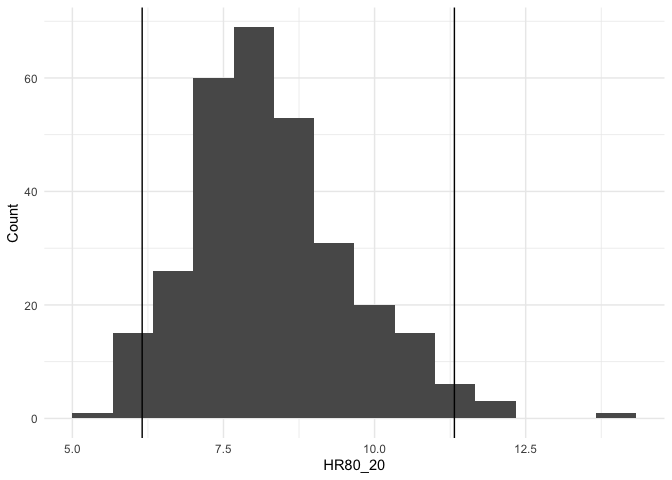
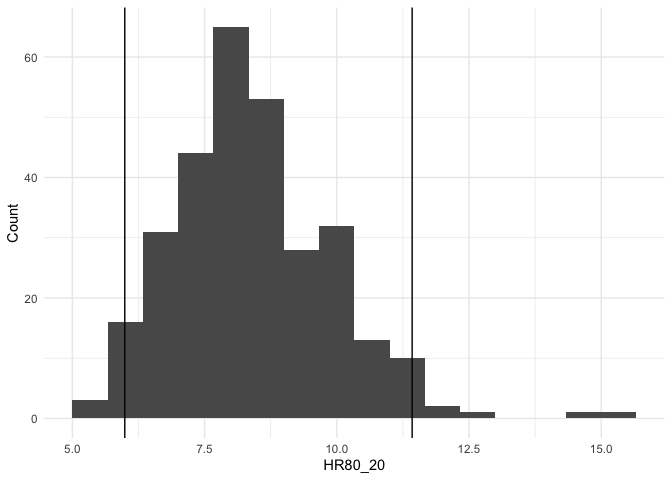
attempt 2 at caching bootstrap output

diff --git a/README.md b/README.md
@@ -72,7 +72,7 @@ that is included with the `hazrd` package.
 ``` r
 library(ggplot2)
 library(hazrd)
-
+set.seed(20393440)
 head(test_data)
 ```
 
@@ -104,9 +104,9 @@ str(HR80_20)
     ## List of 5
     ##  $ index    : chr "HR80_20"
     ##  $ value    : num 8.17
-    ##  $ conf.low : num 6.15
-    ##  $ conf.high: num 11.3
-    ##  $ iters    : num [1:300, 1] 6.06 7.21 7.76 7.23 9.27 ...
+    ##  $ conf.low : num 5.99
+    ##  $ conf.high: num 11.4
+    ##  $ iters    : num [1:300, 1] 8.35 9.71 8.24 10.2 8.54 ...
 
 Each `get_` function also returns the output from each bootstrap
 iteration in `$iters` so that the user can plot these or calculate their
@@ -135,10 +135,10 @@ str(OR80_20)
     ## List of 6
     ##  $ index    : chr "OR80_20"
     ##  $ value    : num 8.52
-    ##  $ conf.low : num 4.69
-    ##  $ conf.high: num 18.2
+    ##  $ conf.low : num 4.92
+    ##  $ conf.high: num 16.3
     ##  $ age      : num 70
-    ##  $ iters    : num [1:300, 1] 7.05 8.42 9.08 5.51 8.67 ...
+    ##  $ iters    : num [1:300, 1] 7.37 11.7 15.78 9.29 6.26 ...
 
 ``` r
 ggplot(mapping = aes(x = OR80_20$iters)) +
@@ -163,9 +163,9 @@ str(c_index)
     ## List of 5
     ##  $ index    : chr "C_Index"
     ##  $ value    : num 0.708
-    ##  $ conf.low : num 0.68
-    ##  $ conf.high: num 0.735
-    ##  $ iters    : num [1:300, 1] 0.679 0.695 0.701 0.703 0.706 ...
+    ##  $ conf.low : num 0.683
+    ##  $ conf.high: num 0.731
+    ##  $ iters    : num [1:300, 1] 0.703 0.722 0.752 0.703 0.721 ...
 
 Finally, plot the Kaplan-Meier curves with confidence intervals for
 centiles of interest.
